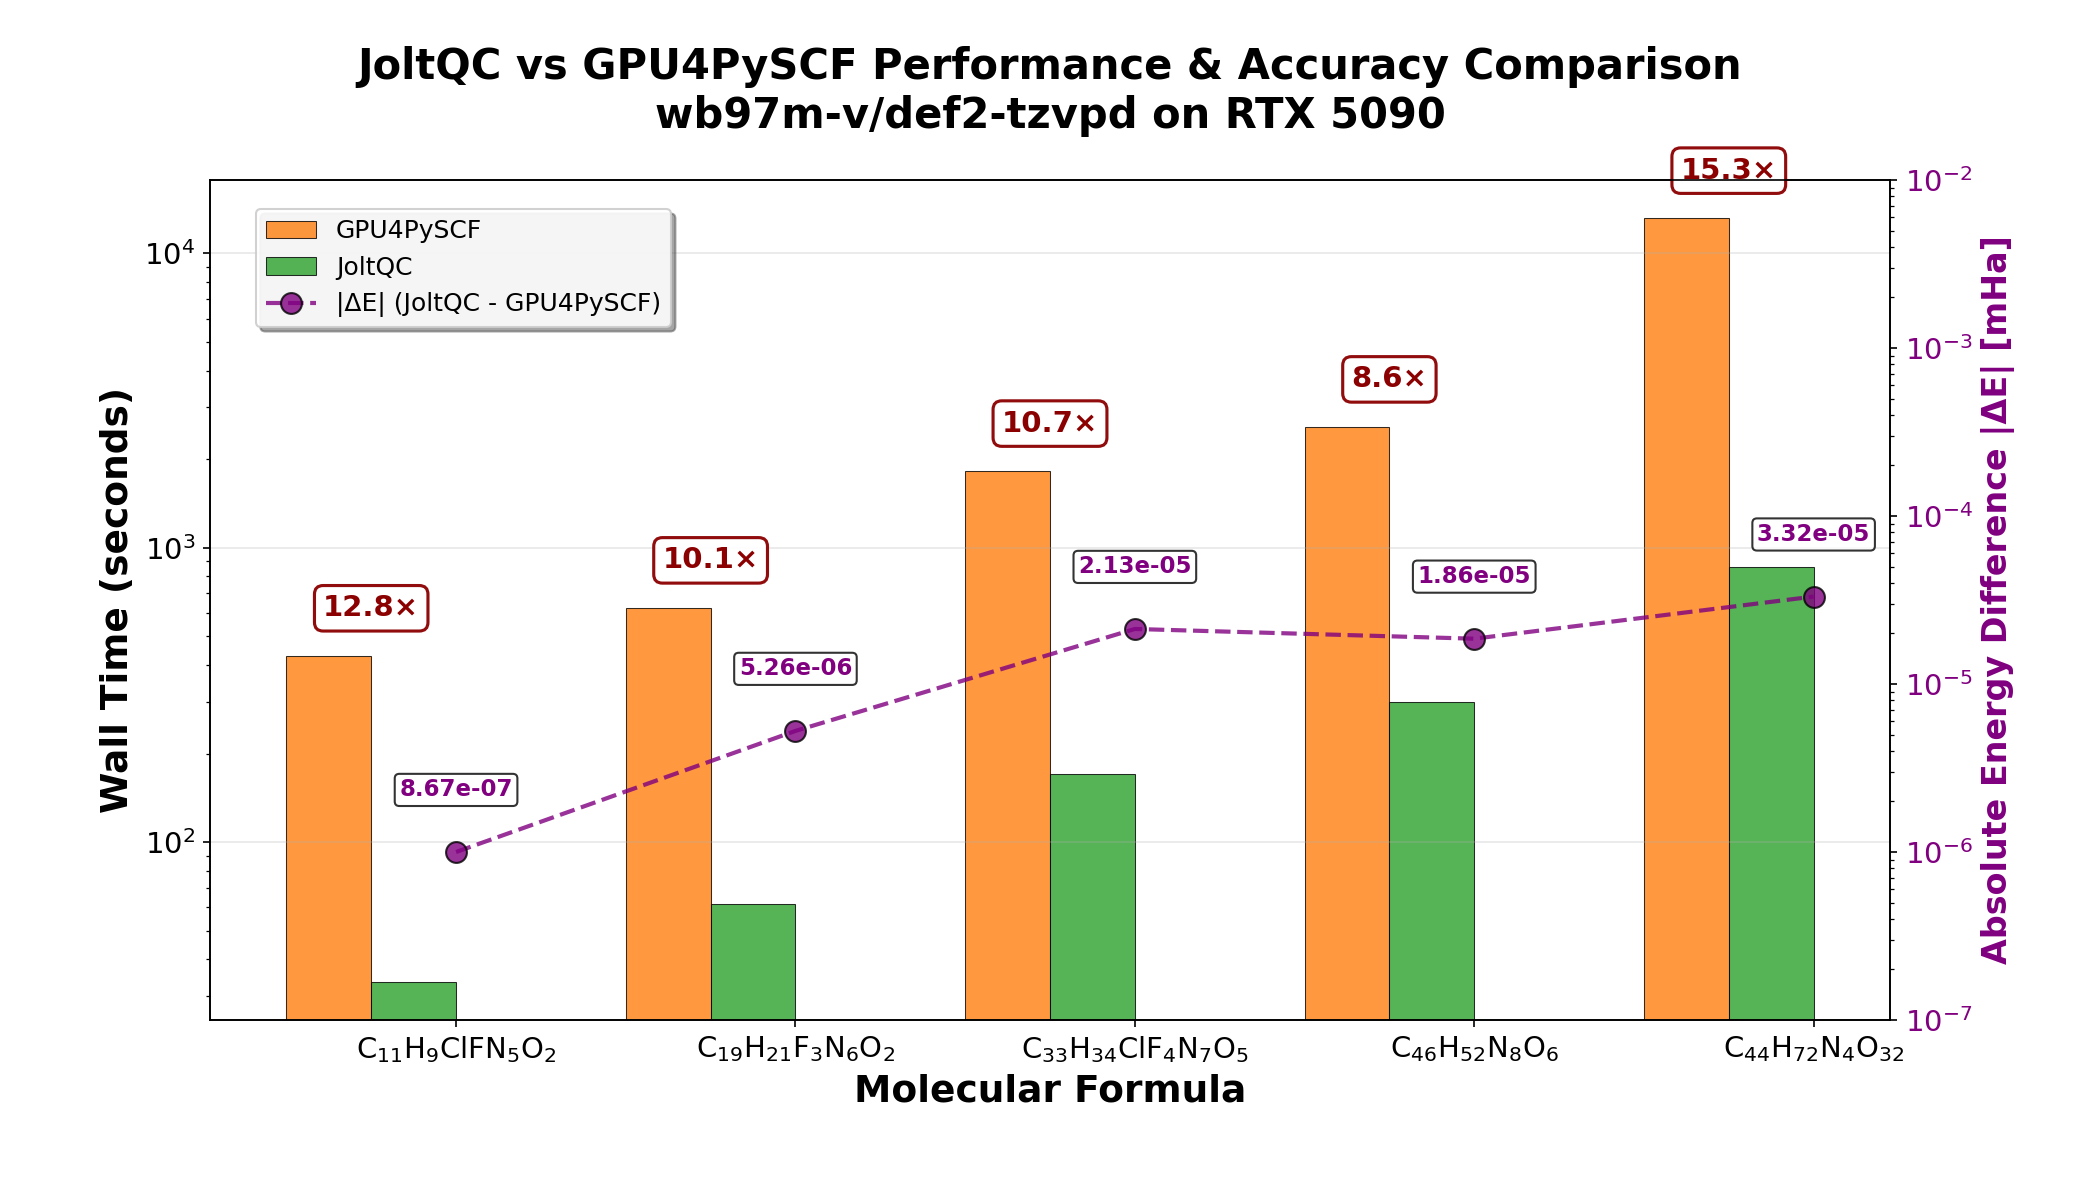
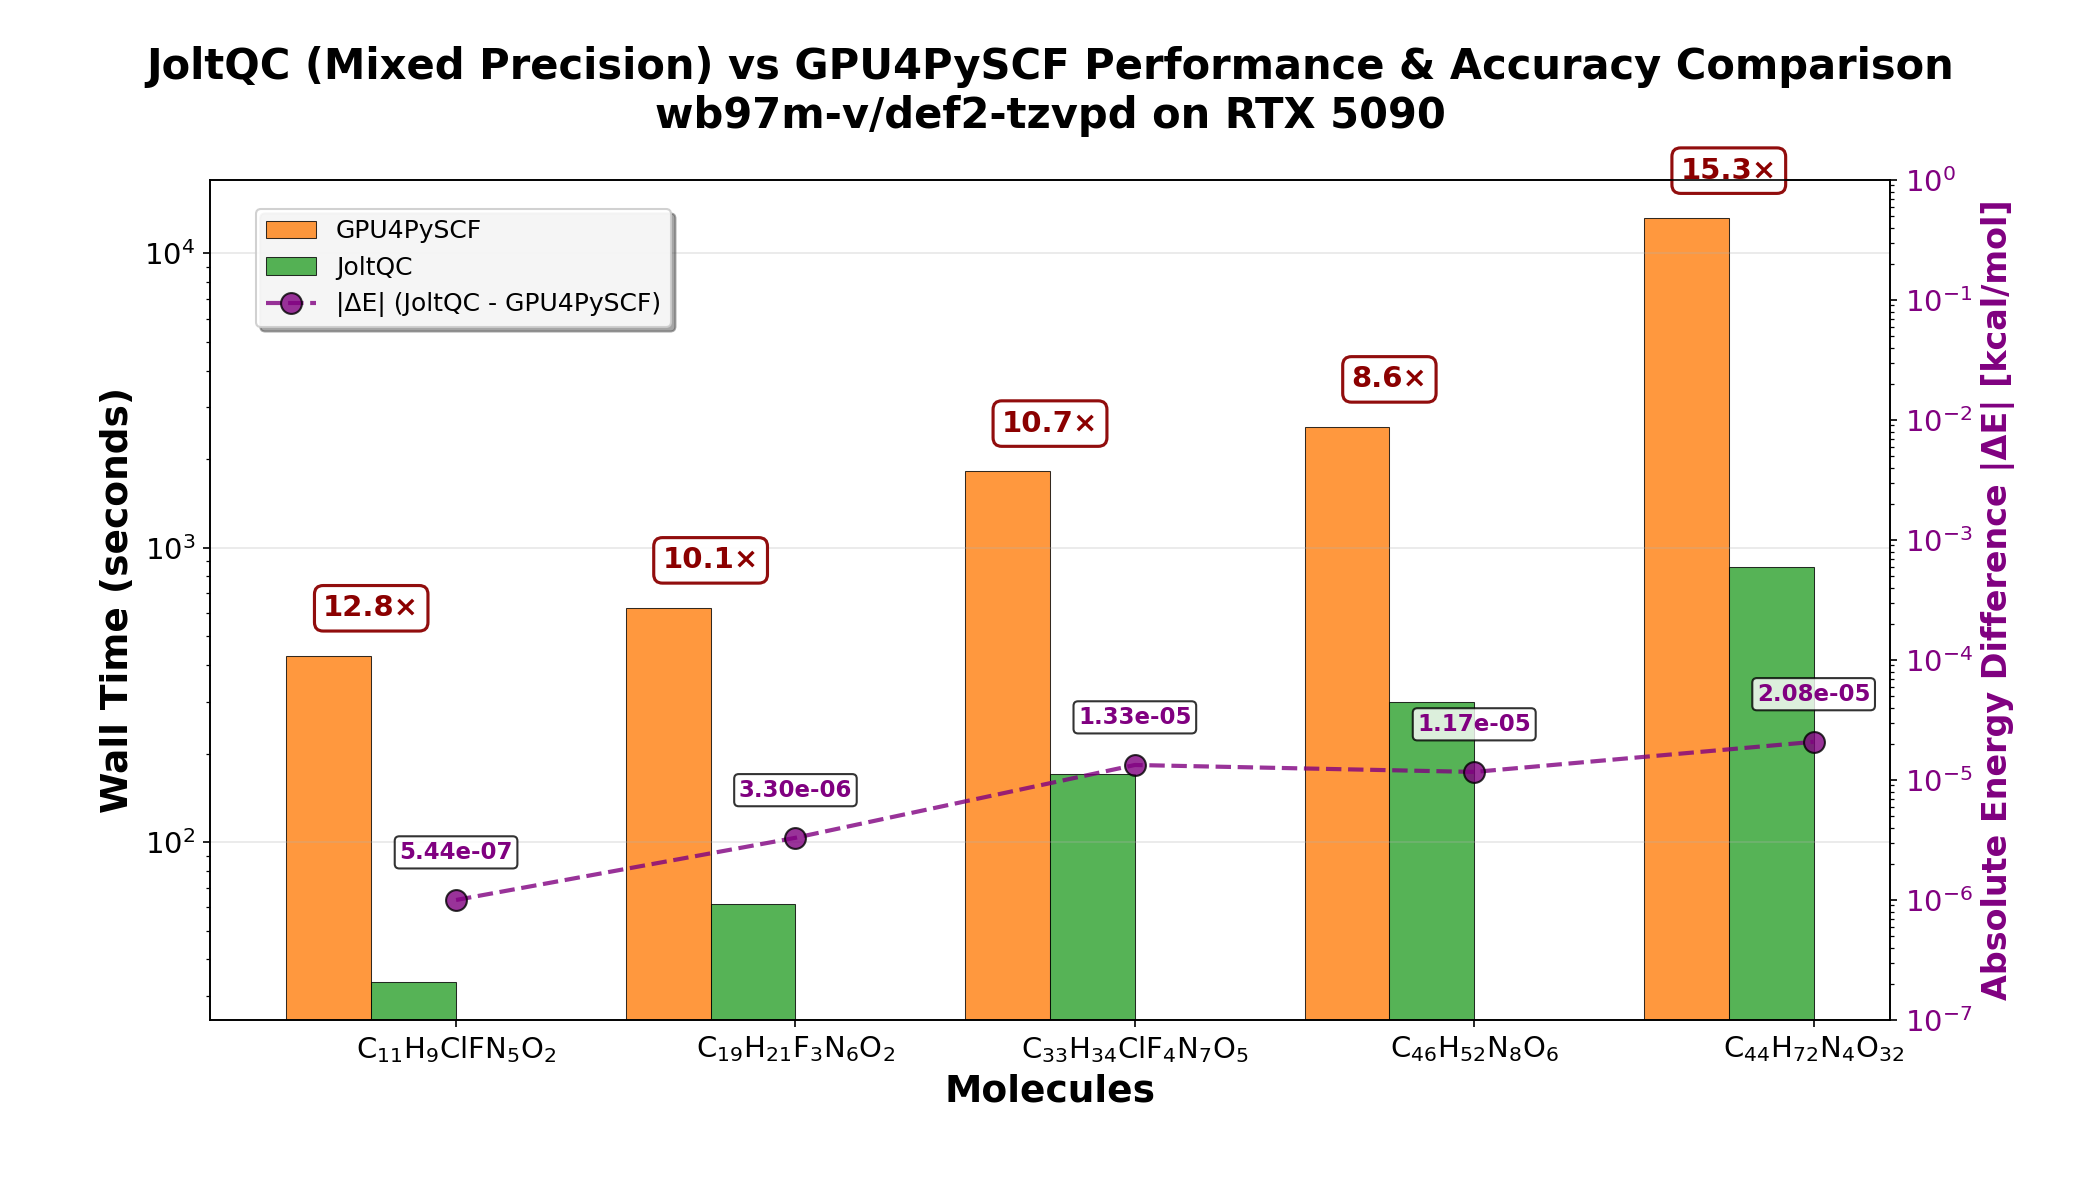
updated read for v0.1

diff --git a/benchmarks/media/plot_jqc_speedup.py b/benchmarks/media/plot_jqc_speedup.py
@@ -90,8 +90,10 @@ def create_speedup_plot():
         if mol_data.get('success', False):
             gpu4pyscf_energies.append(mol_data['energy'])
 
-    # Calculate energy differences (in millihartree for better readability)
-    energy_diff_mh = np.array([(jqc - gpu4pyscf) * 1000 for jqc, gpu4pyscf in zip(jqc_energies, gpu4pyscf_energies)])
+    # Calculate energy differences (in kcal/mol for better readability)
+    # Conversion factor: 1 Hartree = 627.509 kcal/mol
+    hartree_to_kcal_mol = 627.509
+    energy_diff_kcal = np.array([(jqc - gpu4pyscf) * hartree_to_kcal_mol for jqc, gpu4pyscf in zip(jqc_energies, gpu4pyscf_energies)])
 
     # Calculate speedups
     wall_speedup = np.array(gpu4pyscf_wall) / np.array(jqc_wall)
@@ -116,8 +118,8 @@ def create_speedup_plot():
 
     # Customize left y-axis (timing)
     ax1.set_ylabel('Wall Time (seconds)', fontsize=18, fontweight='bold', color='black')
-    ax1.set_xlabel('Molecular Formula', fontsize=18, fontweight='bold')
-    ax1.set_title('JoltQC vs GPU4PySCF Performance & Accuracy Comparison\nwb97m-v/def2-tzvpd on RTX 5090',
+    ax1.set_xlabel('Molecules', fontsize=18, fontweight='bold')
+    ax1.set_title('JoltQC (Mixed Precision) vs GPU4PySCF Performance & Accuracy Comparison\nwb97m-v/def2-tzvpd on RTX 5090',
                  fontsize=20, fontweight='bold', pad=25)
     ax1.set_xticks(x_pos)
     ax1.set_xticklabels(jqc_formulas, fontsize=16, rotation=0, ha='center')
@@ -140,30 +142,30 @@ def create_speedup_plot():
     ax2 = ax1.twinx()
 
     # Calculate absolute energy differences (add small value to avoid log(0))
-    abs_energy_diff_mh = np.abs(energy_diff_mh)
+    abs_energy_diff_kcal = np.abs(energy_diff_kcal)
     # Add a small value to prevent log(0) issues
-    abs_energy_diff_mh_log = np.maximum(abs_energy_diff_mh, 1e-6)
+    abs_energy_diff_kcal_log = np.maximum(abs_energy_diff_kcal, 1e-6)
 
     # Plot absolute energy differences as dots and dashed line (shifted to middle)
-    ax2.plot(x_pos, abs_energy_diff_mh_log, 'o--', color='purple', linewidth=2, markersize=10,
+    ax2.plot(x_pos, abs_energy_diff_kcal_log, 'o--', color='purple', linewidth=2, markersize=10,
              alpha=0.8, label='|ΔE| (JoltQC - GPU4PySCF)', markerfacecolor='purple', markeredgecolor='black')
 
     # Customize right y-axis (energy difference) with log scale
-    ax2.set_ylabel('Absolute Energy Difference |ΔE| [mHa]', fontsize=16, fontweight='bold', color='purple')
+    ax2.set_ylabel('Absolute Energy Difference |ΔE| [kcal/mol]', fontsize=16, fontweight='bold', color='purple')
     ax2.tick_params(axis='y', labelcolor='purple', labelsize=14)
     ax2.set_yscale('log')
 
     # Set reasonable limits for log scale energy difference axis
-    min_val = max(abs_energy_diff_mh_log.min(), 1e-6)
-    max_val = max(abs_energy_diff_mh_log.max(), 1e-3)
+    min_val = max(abs_energy_diff_kcal_log.min(), 1e-6)
+    max_val = max(abs_energy_diff_kcal_log.max(), 1e-1)  # Adjusted for kcal/mol scale
     ax2.set_ylim(min_val * 0.1, max_val * 10)
 
     # Add energy difference value labels (shifted to middle, between timing bars)
-    for i, abs_diff in enumerate(abs_energy_diff_mh):
+    for i, abs_diff in enumerate(abs_energy_diff_kcal):
         # Position at the middle of the x-axis position (between timing bars)
         x_middle = i
         # For log scale, position labels above the points
-        log_height = abs_energy_diff_mh_log[i] * 2
+        log_height = abs_energy_diff_kcal_log[i] * 2
 
         # Show actual value in scientific notation
         display_value = abs_diff if abs_diff > 1e-6 else abs_diff
@@ -200,31 +202,31 @@ def create_speedup_plot():
     print("\n" + "="*80)
     print("PERFORMANCE & ACCURACY ANALYSIS - JoltQC vs GPU4PySCF")
     print("="*80)
-    print(f"{'Chemical Formula':<25} {'GPU4PySCF (s)':<12} {'JoltQC (s)':<10} {'Speedup':<10} {'ΔE (mHa)':<10}")
-    print("-"*80)
+    print(f"{'Chemical Formula':<25} {'GPU4PySCF (s)':<12} {'JoltQC (s)':<10} {'Speedup':<10} {'ΔE (kcal/mol)':<15}")
+    print("-"*85)
 
     for i, formula in enumerate(jqc_formulas):
-        print(f"{formula:<25} {gpu4pyscf_wall[i]:<12.1f} {jqc_wall[i]:<10.1f} {wall_speedup[i]:<10.1f}× {energy_diff_mh[i]:<10.2f}")
+        print(f"{formula:<25} {gpu4pyscf_wall[i]:<12.1f} {jqc_wall[i]:<10.1f} {wall_speedup[i]:<10.1f}× {energy_diff_kcal[i]:<15.3f}")
 
-    print("-"*80)
-    print(f"{'AVERAGE':<25} {np.mean(gpu4pyscf_wall):<12.1f} {np.mean(jqc_wall):<10.1f} {avg_speedup:<10.1f}× {np.mean(np.abs(energy_diff_mh)):<10.2f}")
-    print(f"{'TOTAL':<25} {total_gpu4pyscf_time:<12.1f} {total_jqc_time:<10.1f} {total_speedup:<10.1f}× {np.max(np.abs(energy_diff_mh)):<10.2f}")
+    print("-"*85)
+    print(f"{'AVERAGE':<25} {np.mean(gpu4pyscf_wall):<12.1f} {np.mean(jqc_wall):<10.1f} {avg_speedup:<10.1f}× {np.mean(np.abs(energy_diff_kcal)):<15.3f}")
+    print(f"{'TOTAL':<25} {total_gpu4pyscf_time:<12.1f} {total_jqc_time:<10.1f} {total_speedup:<10.1f}× {np.max(np.abs(energy_diff_kcal)):<15.3f}")
 
     print(f"\n{'='*80}")
     print("INDIVIDUAL SPEEDUP & ENERGY DIFFERENCE BREAKDOWN:")
-    for i, (formula, speedup, energy_diff) in enumerate(zip(jqc_formulas, wall_speedup, energy_diff_mh)):
-        print(f"  {formula}: {speedup:.1f}× faster, ΔE = {energy_diff:.2f} mHa")
+    for i, (formula, speedup, energy_diff) in enumerate(zip(jqc_formulas, wall_speedup, energy_diff_kcal)):
+        print(f"  {formula}: {speedup:.1f}× faster, ΔE = {energy_diff:.3f} kcal/mol")
 
     print(f"\n{'='*80}")
     print("ENERGY ACCURACY SUMMARY:")
-    print(f"  Mean absolute energy difference: {np.mean(np.abs(energy_diff_mh)):.2f} mHa")
-    print(f"  Max absolute energy difference:  {np.max(np.abs(energy_diff_mh)):.2f} mHa")
-    print(f"  RMS energy difference:           {np.sqrt(np.mean(energy_diff_mh**2)):.2f} mHa")
+    print(f"  Mean absolute energy difference: {np.mean(np.abs(energy_diff_kcal)):.3f} kcal/mol")
+    print(f"  Max absolute energy difference:  {np.max(np.abs(energy_diff_kcal)):.3f} kcal/mol")
+    print(f"  RMS energy difference:           {np.sqrt(np.mean(energy_diff_kcal**2)):.3f} kcal/mol")
 
     # Show plot (will be ignored in headless mode)
     plt.show()
 
-    return wall_speedup, avg_speedup, jqc_formulas, energy_diff_mh
+    return wall_speedup, avg_speedup, jqc_formulas, energy_diff_kcal
 
 
 if __name__ == "__main__":
@@ -232,7 +234,7 @@ if __name__ == "__main__":
         speedups, avg_speedup, formulas, energy_diffs = create_speedup_plot()
         print(f"\n✓ Successfully generated performance & accuracy comparison plot")
         print(f"✓ Average speedup: {avg_speedup:.1f}× improvement")
-        print(f"✓ Average energy difference: {np.mean(np.abs(energy_diffs)):.2f} mHa")
+        print(f"✓ Average energy difference: {np.mean(np.abs(energy_diffs)):.3f} kcal/mol")
         print(f"✓ Analyzed {len(formulas)} molecules with chemical formulas")
     except Exception as e:
         print(f"Error generating plot: {e}")

diff --git a/README.md b/README.md
@@ -41,6 +41,8 @@ JoltQC is not intended to be a complete quantum chemistry package, but rather a 
 - Support FP64, FP32, and mixed-precision schemes
 - Python interface to [GPU4PySCF](https://github.com/pyscf/gpu4pyscf)
 
+![JoltQC vs GPU4PySCF Speedup](benchmarks/media/jqc_vs_gpu4pyscf_speedup.png)
+
 ## Recommendations
 
 - Use **PySCF/GPU4PySCF** for general-purpose workflows; JoltQC is a JIT backend
